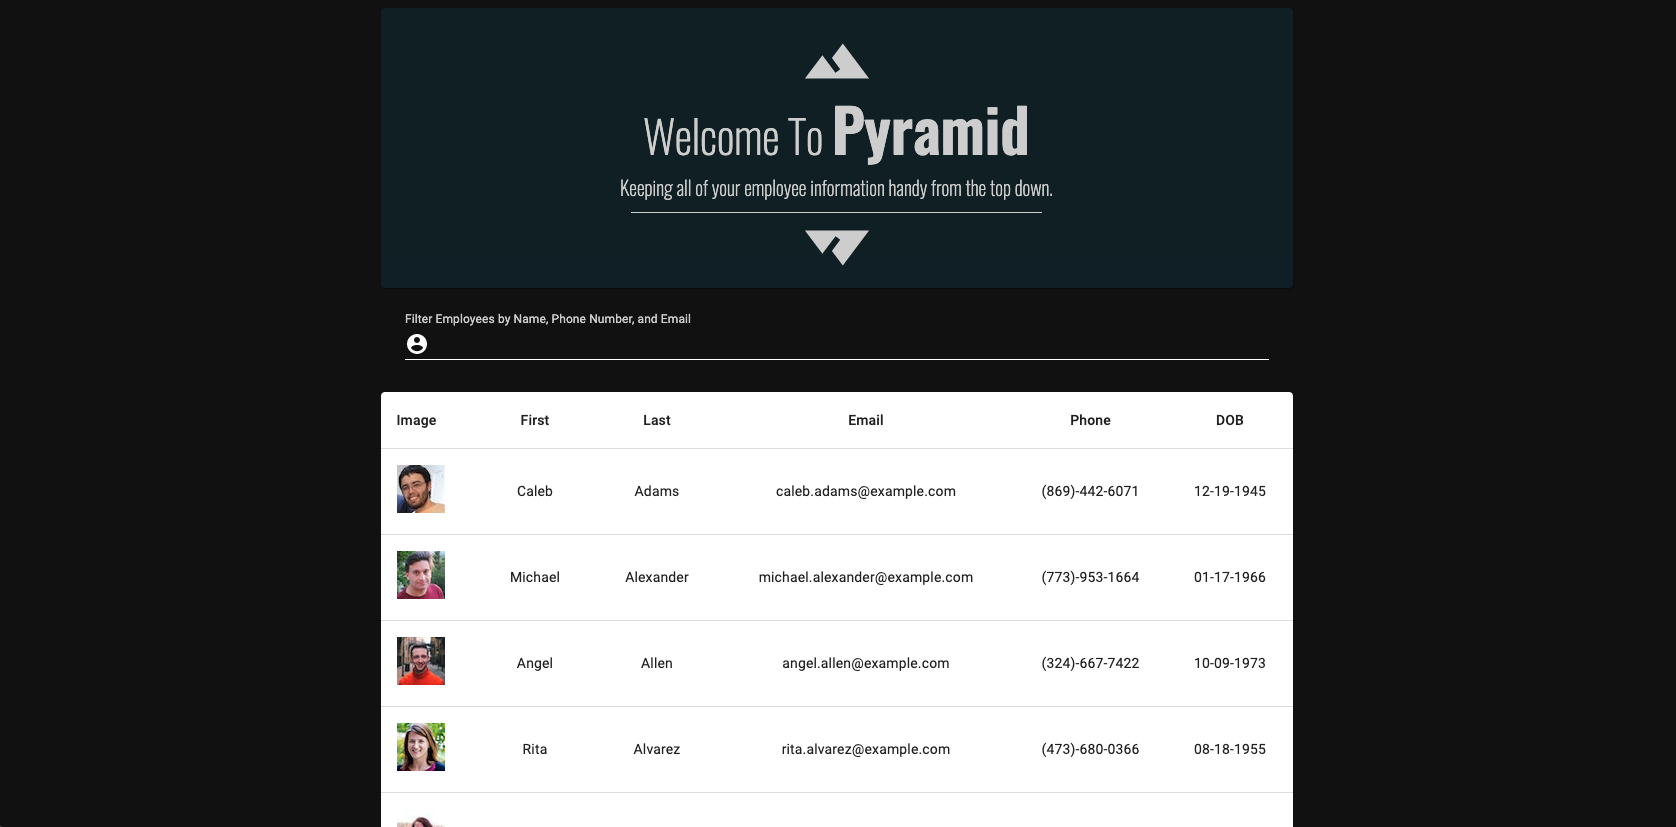
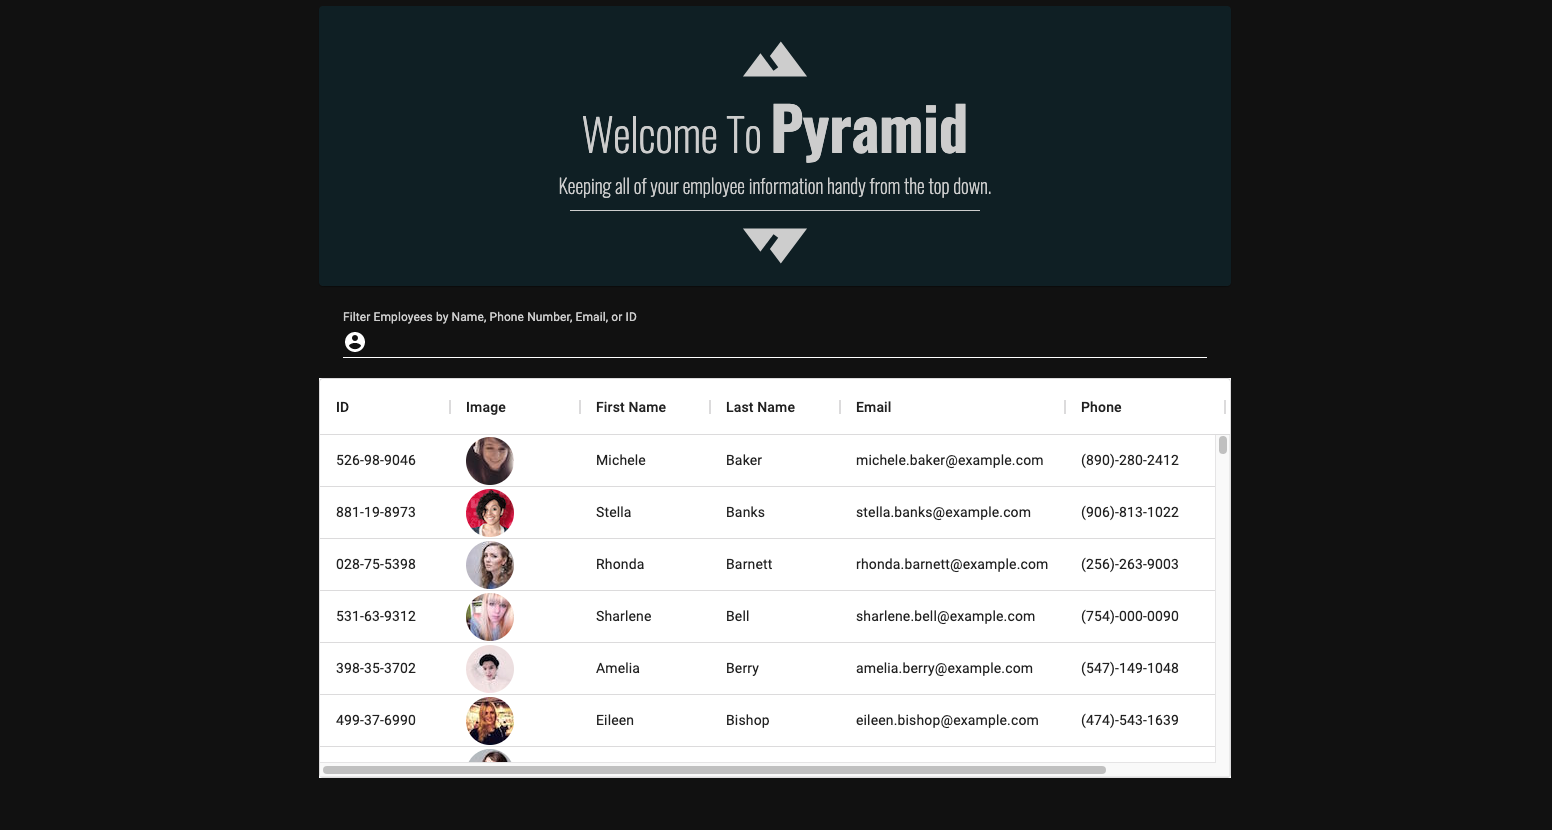
README updated

diff --git a/README.md b/README.md
@@ -46,6 +46,14 @@ Otherwise, visit the deployed application <a href = "#!">here</a>
 
 <img src = "public/number.png" alt="screenshot of pyramid">
 
+#### Filtered by ID
+
+<img src = "public/id.png" alt="screenshot of pyramid">
+
+#### Users are able to sort all categories in ascending and descending order
+
+<img src = "public/desc.png" alt="screenshot of pyramid">
+
 ## Resources
 
 **React** <br>
